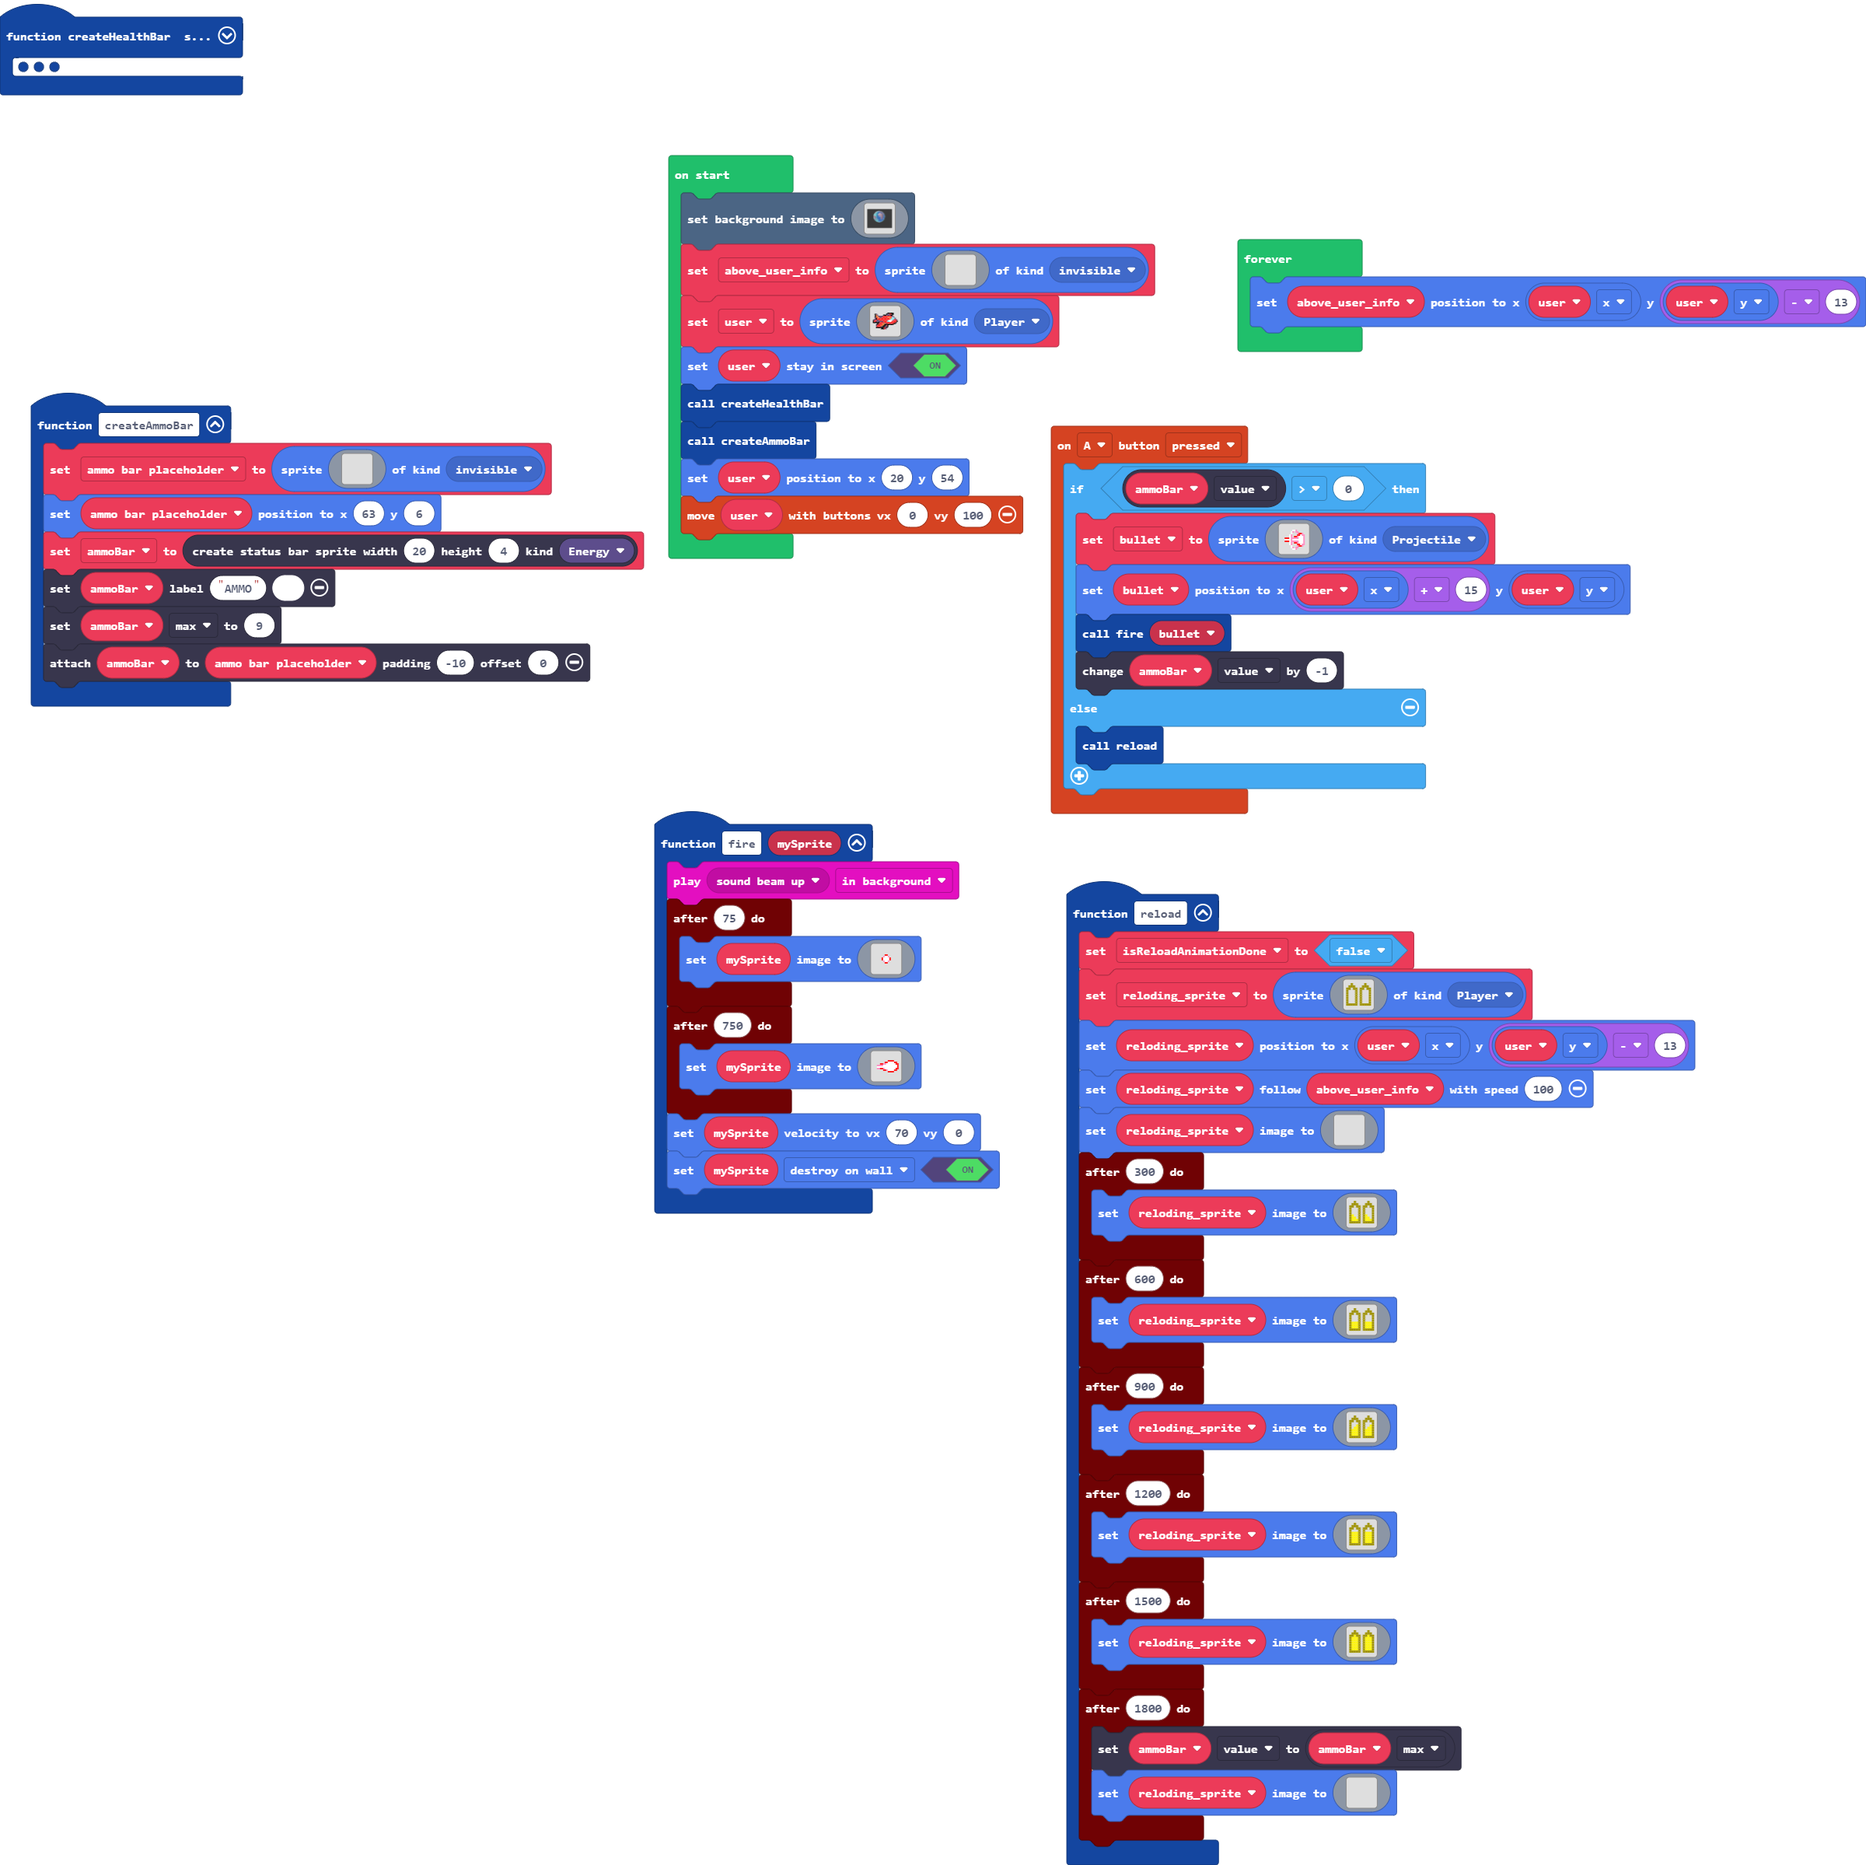
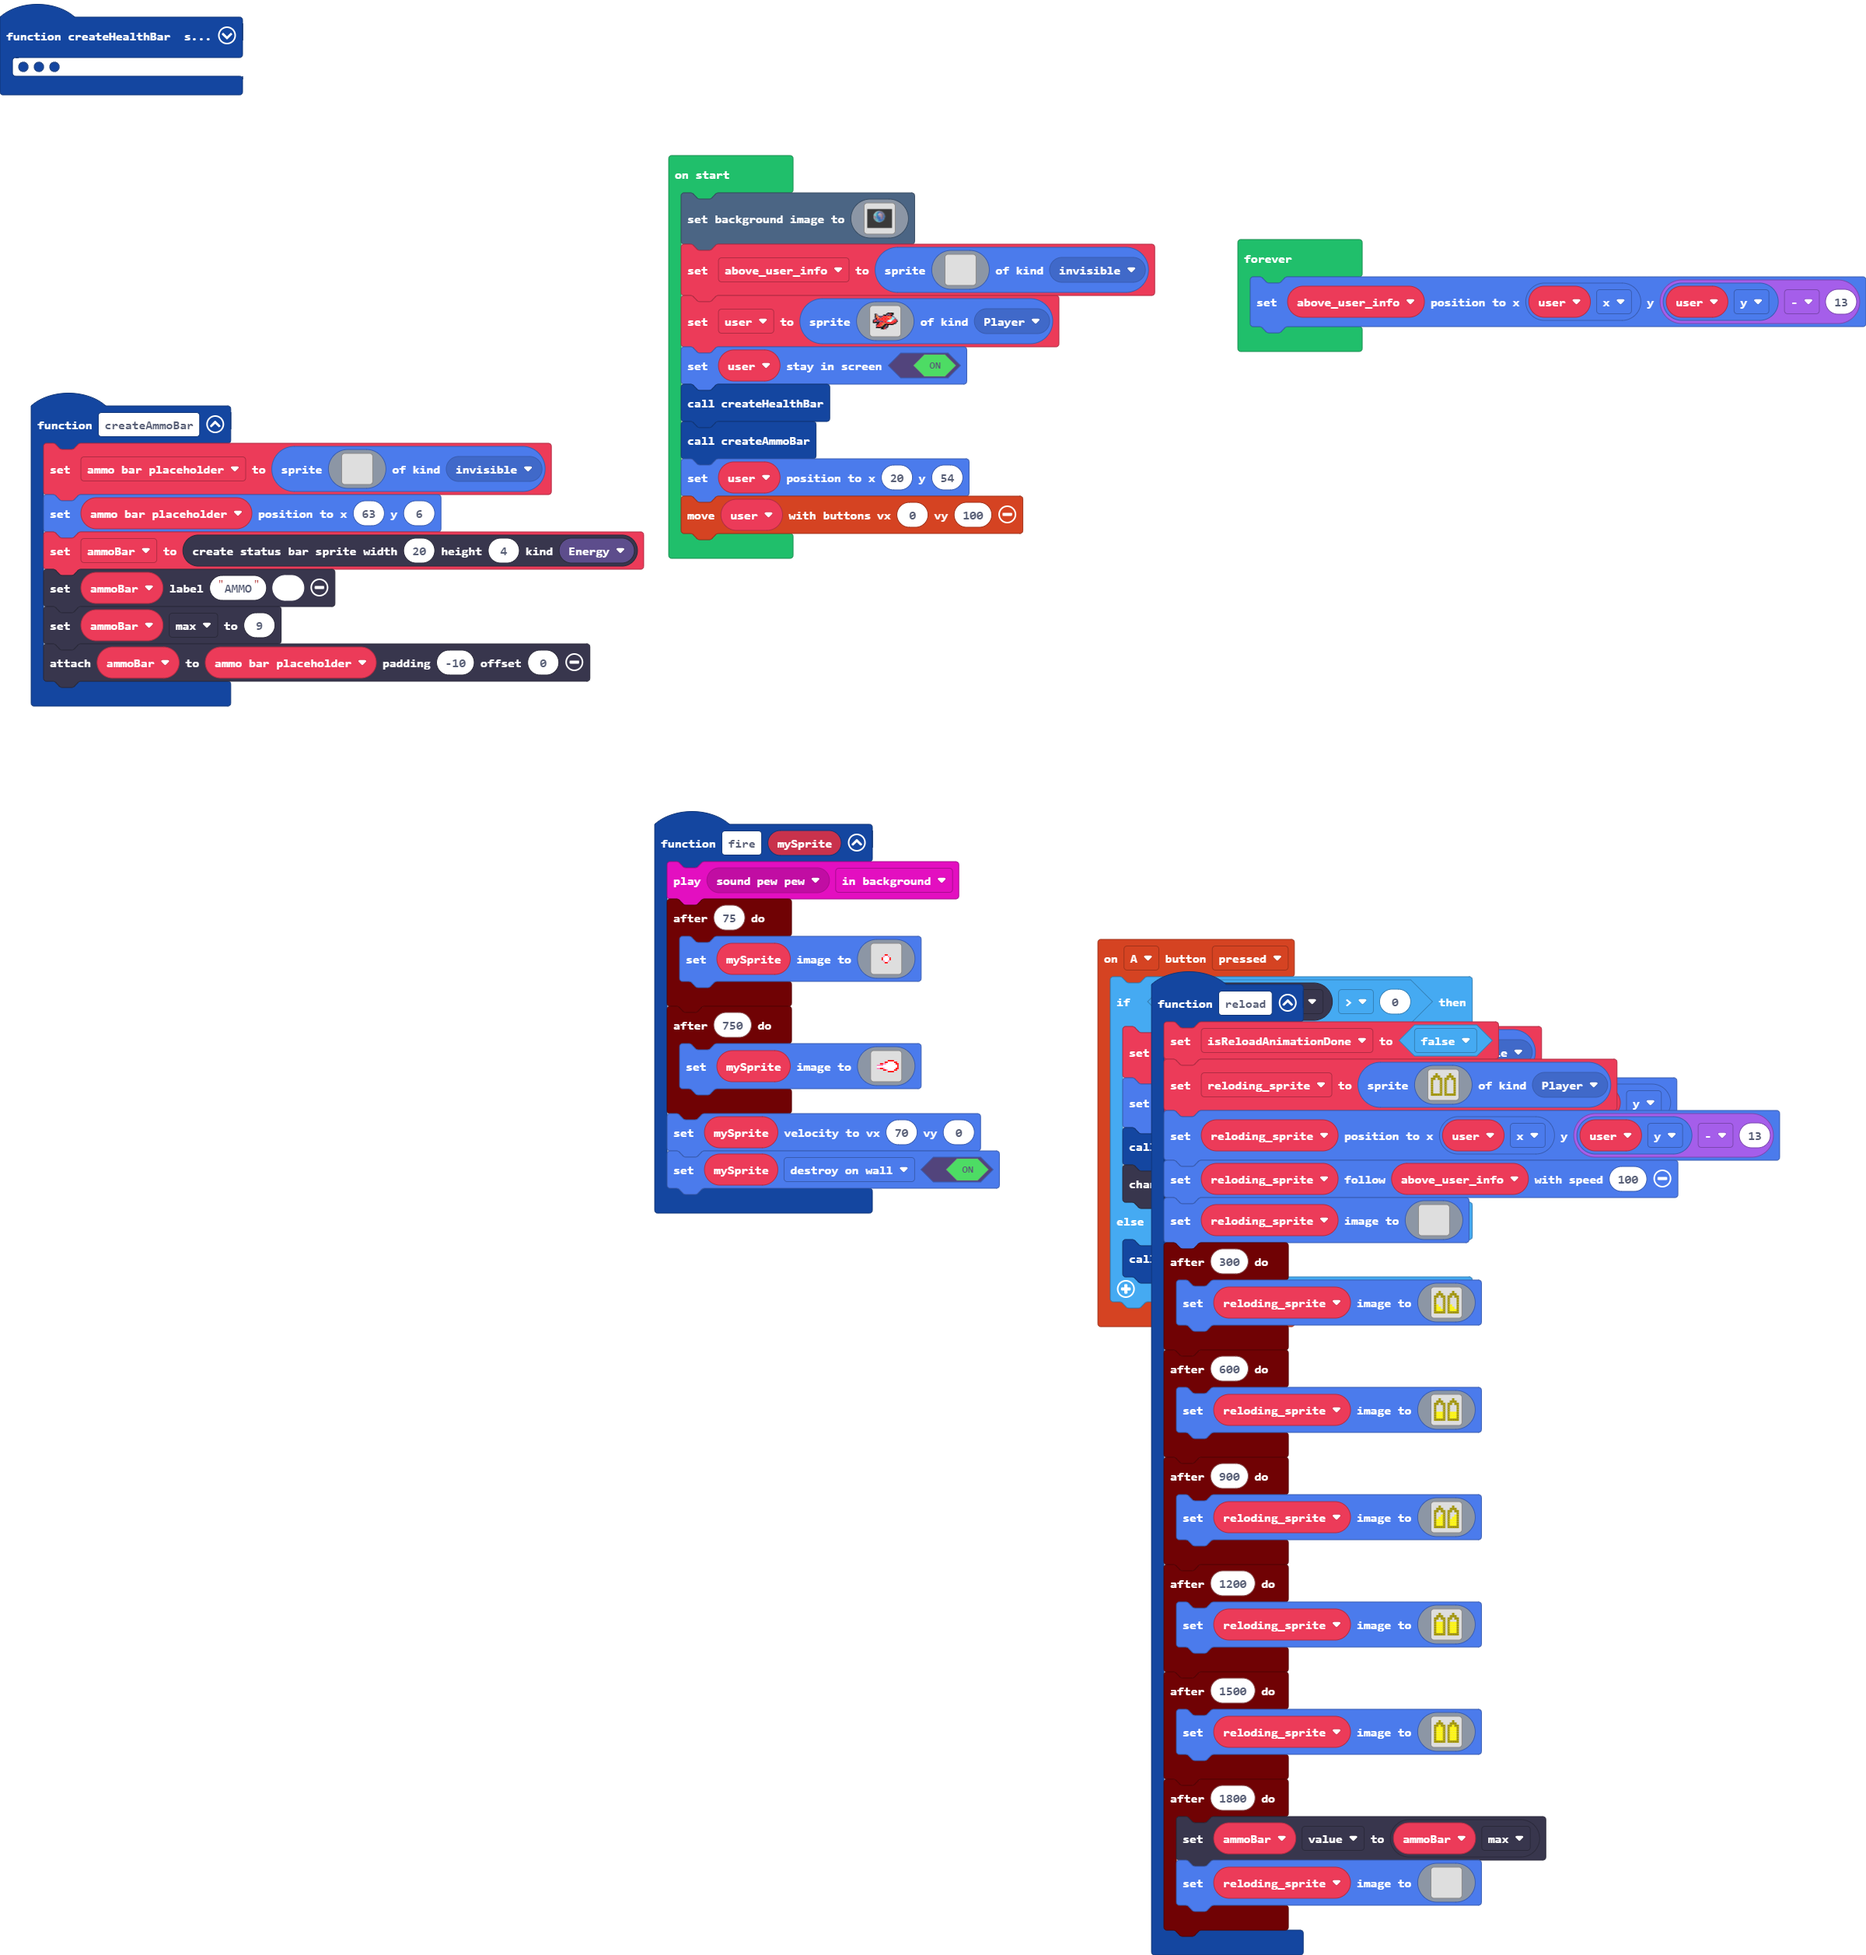
changed shooting sound effect

diff --git a/main.ts b/main.ts
@@ -78,7 +78,7 @@ function reload () {
     })
 }
 function fire (mySprite: Sprite) {
-    music.play(music.melodyPlayable(music.beamUp), music.PlaybackMode.InBackground)
+    music.play(music.melodyPlayable(music.pewPew), music.PlaybackMode.InBackground)
     timer.after(75, function () {
         mySprite.setImage(img`
             . . . . . . . . . . . . . . . . 
